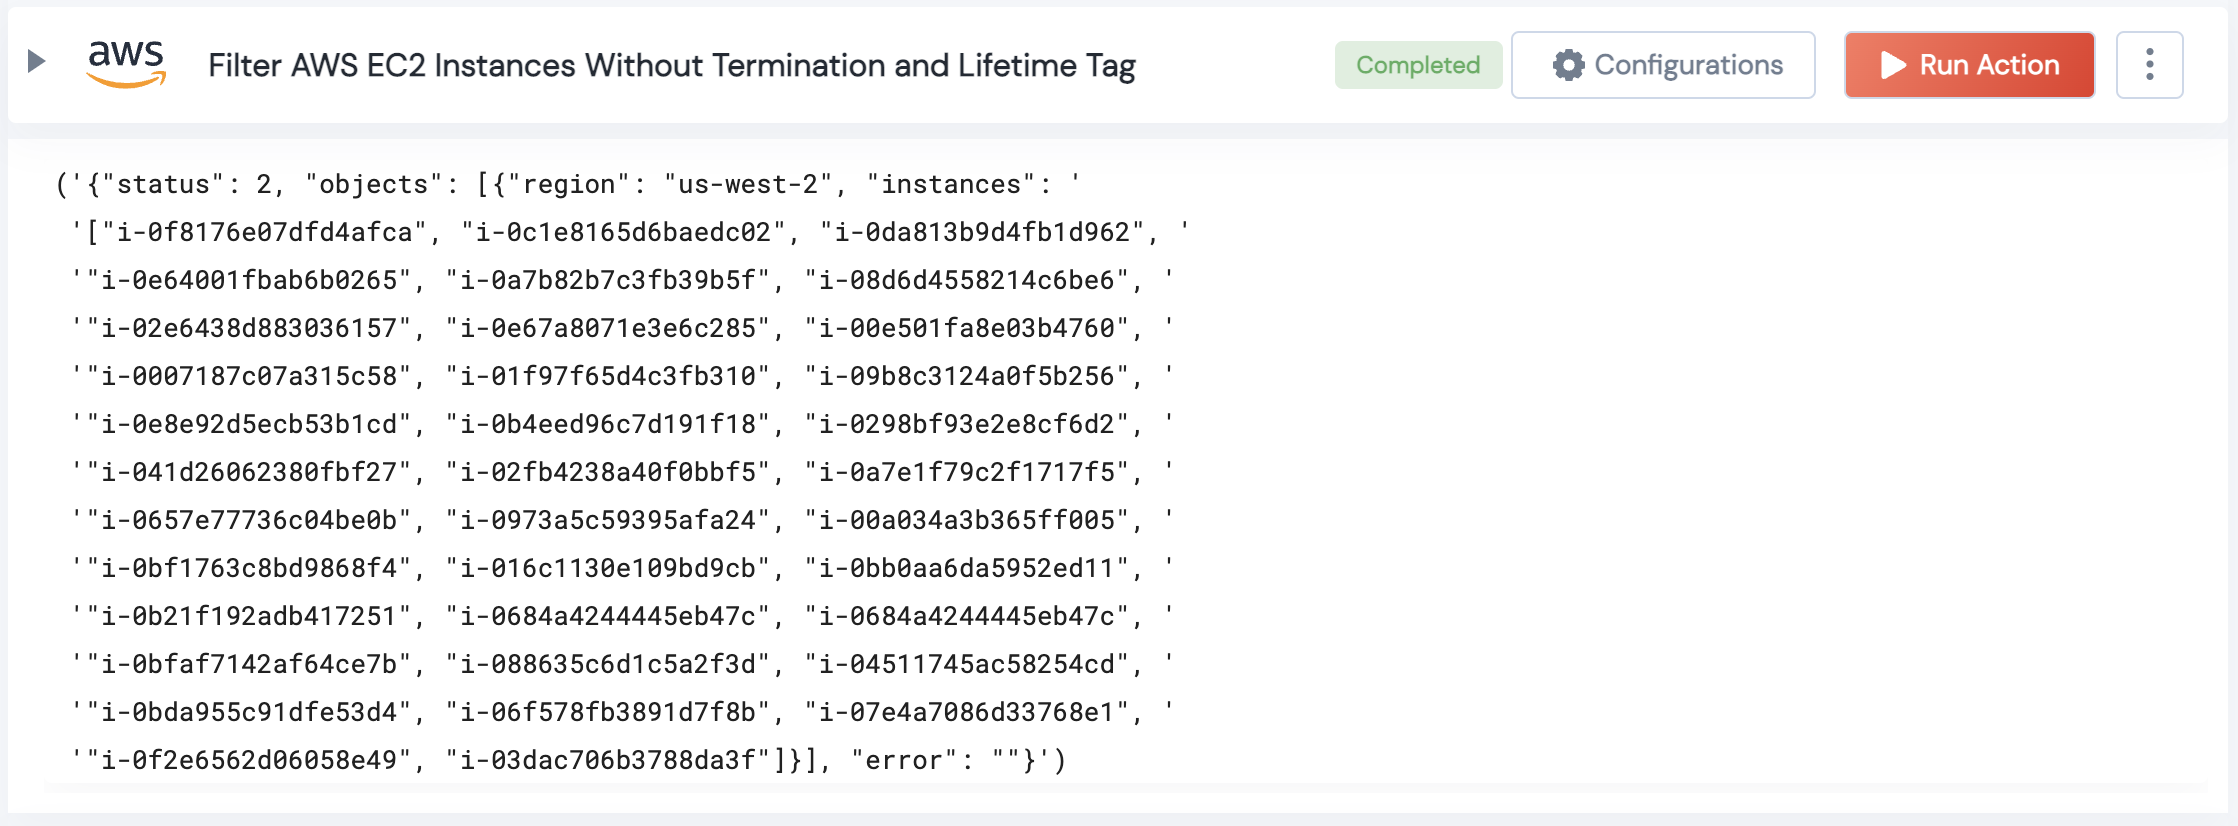
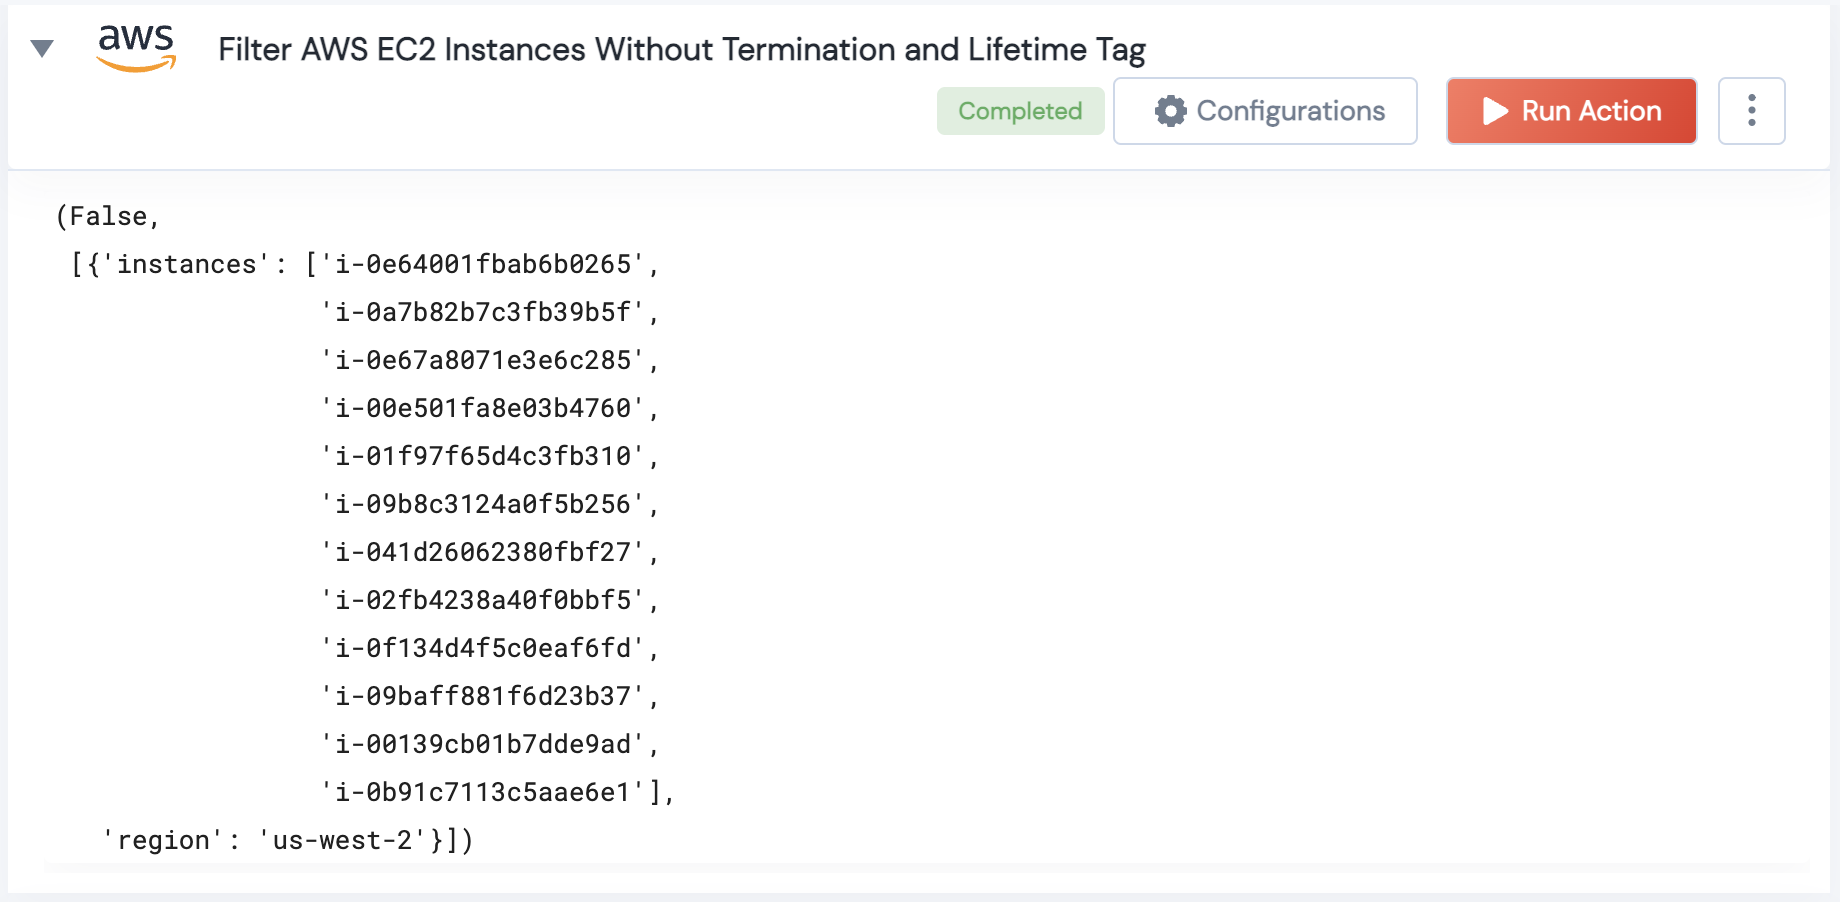
Action Update: List EC2 instances without lifetime and termination tags

Changed region(s): [[0.031, 0.2119, 0.5266, 0.9383], [0.0, 0.0303, 0.9913, 0.1816]]

diff --git a/AWS/legos/aws_filter_instances_without_termination_and_lifetime_tag/aws_filter_instances_without_termination_and_lifetime_tag.py b/AWS/legos/aws_filter_instances_without_termination_and_lifetime_tag/aws_filter_instances_without_termination_and_lifetime_tag.py
@@ -15,6 +15,17 @@ class InputSchema(BaseModel):
         title='Region',
         description='Name of the AWS Region'
     )
+    termination_tag_name: Optional[str] = Field(
+        default="terminationDateTag",
+        title='Termination Date Tag Name',
+        description='Name of the Termination Date Tag given to an EC2 instance. By default "terminationDateTag" is considered '
+    )
+    lifetime_tag_name: Optional[str] = Field(
+        default="lifetimeTag",
+        title='Lifetime Tag Name',
+        description='Name of the Lifetime Date Tag given to an EC2 instance. By default "lifetimeTag" is considered '
+    )
+
 
 def aws_filter_instances_without_termination_and_lifetime_tag_printer(output):
     if output is None:
@@ -22,7 +33,7 @@ def aws_filter_instances_without_termination_and_lifetime_tag_printer(output):
     
     pprint.pprint(output)
 
-def fetch_instances_from_valid_region(res,r):
+def fetch_instances_from_valid_region(res,r, termination_tag_name, lifetime_tag_name):
     result=[]
     instances_dict={}
     for reservation in res:
@@ -30,18 +41,18 @@ def fetch_instances_from_valid_region(res,r):
                 try:
                     tagged_instance = instance['Tags']
                     tag_keys = [tags['Key'] for tags in tagged_instance]
-                    if 'terminationDateTag' not in tag_keys or 'lifetimeTag' not in tag_keys:
+                    if termination_tag_name not in tag_keys or lifetime_tag_name not in tag_keys:
                         result.append(instance['InstanceId'])
-                    elif 'terminationDateTag' not in tag_keys and 'lifetimeTag' not in tag_keys:
+                    elif termination_tag_name not in tag_keys and lifetime_tag_name not in tag_keys:
                         result.append(instance['InstanceId'])
-                    if 'terminationDateTag' in tag_keys:
+                    if termination_tag_name in tag_keys:
                         for x in instance['Tags']:
-                            if x['Key'] == 'terminationDateTag':
+                            if x['Key'] == termination_tag_name:
                                 right_now = date.today()
                                 date_object = datetime.strptime(x['Value'], '%d-%m-%Y').date()
                                 if date_object < right_now:
                                     result.append(instance['InstanceId'])
-                            elif x['Key'] == 'lifetimeTag':
+                            elif x['Key'] == lifetime_tag_name:
                                 launch_time = instance['LaunchTime']
                                 convert_to_datetime = launch_time.strftime("%d-%m-%Y")
                                 launch_date = datetime.strptime(convert_to_datetime,'%d-%m-%Y').date()
@@ -56,7 +67,7 @@ def fetch_instances_from_valid_region(res,r):
         instances_dict['instances']= result
     return instances_dict
 
-def aws_filter_instances_without_termination_and_lifetime_tag(handle, region: str=None) -> Tuple:
+def aws_filter_instances_without_termination_and_lifetime_tag(handle, region: str=None, termination_tag_name:str='terminationDateTag', lifetime_tag_name:str='lifetimeTag') -> Tuple:
     """aws_filter_ec2_without_lifetime_tag Returns an List of instances which not have lifetime tag.
 
         Assumed tag key format - terminationDateTag, lifetimeTag
@@ -66,7 +77,13 @@ def aws_filter_instances_without_termination_and_lifetime_tag(handle, region: st
         :param handle: Object returned from task.validate(...).
 
         :type region: string
-        :param region: Used to filter the instance for specific region.
+        :param region: Optional, Name of AWS Region
+
+        :type termination_tag_name: string
+        :param termination_tag_name: Optional, Name of the Termination Date Tag given to an EC2 instance. By default "terminationDateTag" is considered 
+
+        :type lifetime_tag_name: string
+        :param lifetime_tag_name: Optional, Name of the Lifetime Date Tag given to an EC2 instance. By default "lifetimeTag" is considered 
 
         :rtype: Tuple of status, instances which dont having terminationDateTag and lifetimeTag, and error
     """
@@ -78,7 +95,7 @@ def aws_filter_instances_without_termination_and_lifetime_tag(handle, region: st
         try:
             ec2Client = handle.client('ec2', region_name=r)
             all_reservations = aws_get_paginator(ec2Client, "describe_instances", "Reservations")
-            instances_without_tags = fetch_instances_from_valid_region(all_reservations,r)
+            instances_without_tags = fetch_instances_from_valid_region(all_reservations, r, termination_tag_name, lifetime_tag_name)
             if len(instances_without_tags)!=0:
                 final_list.append(instances_without_tags)
         except Exception as e:
@@ -86,4 +103,4 @@ def aws_filter_instances_without_termination_and_lifetime_tag(handle, region: st
     if len(final_list)!=0:
         return (False, final_list)
     else:
-        return (True, [])
+        return (True, None)

diff --git a/AWS/legos/aws_filter_instances_without_termination_and_lifetime_tag/README.md b/AWS/legos/aws_filter_instances_without_termination_and_lifetime_tag/README.md
@@ -6,13 +6,15 @@ This Lego Filter Instances without Termination and Lifetime Tag and check of the
 
 ## Lego Details
 
-    aws_filter_instances_without_termination_and_lifetime_tag(handle: object,region: str)
+    aws_filter_instances_without_termination_and_lifetime_tag(handle: object,region: str, termination_tag_name:str,lifetime_tag_name:str )
 
         handle: Object of type unSkript AWS Connector.
         region: Optional, AWS region. Eg: "us-west-2"
+        termination_tag_name: Optional, Name of the Termination Date Tag given to an EC2 instance. By default "terminationDateTag" is considered 
+        lifetime_tag_name: Optional, Name of the Lifetime Date Tag given to an EC2 instance. By default "lifetimeTag" is considered 
 
 ## Lego Input
-This Lego take two inputs handle, region.
+This Lego take 4 inputs handle, region, termination_tag_name, lifetime_tag_name
 
 ## Lego Output
 Here is a sample output.
